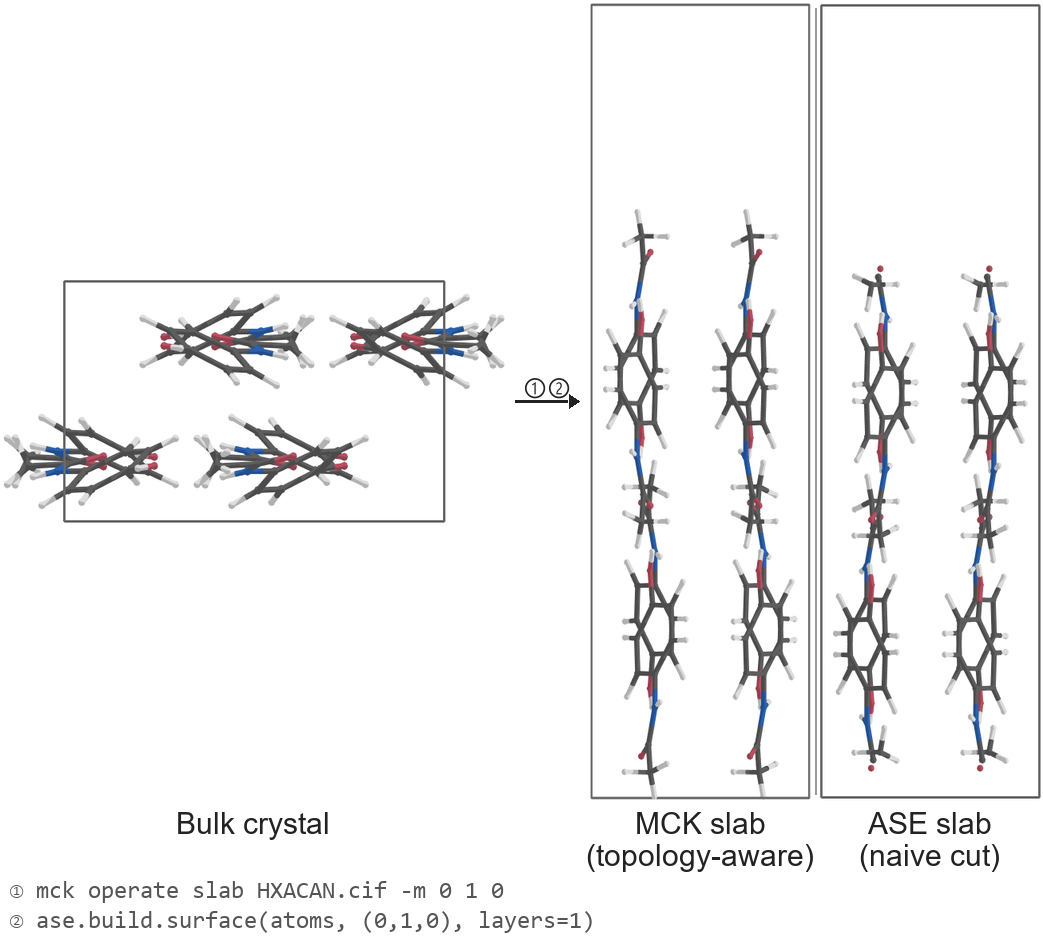
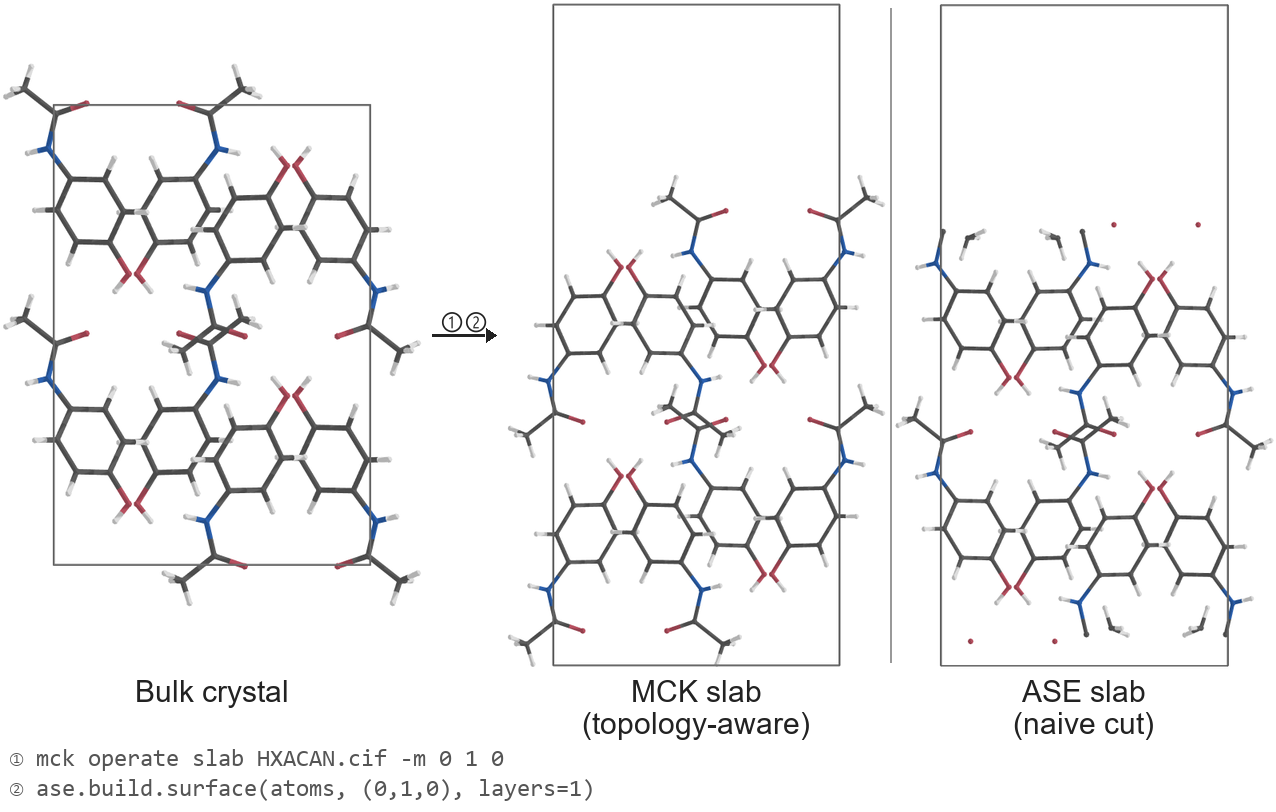
docs: regenerate fig03 with wider view angle

diff --git a/README.md b/README.md
@@ -29,7 +29,7 @@ MolCrysKit is a Python toolkit designed for handling molecular crystals, providi
 </p>
 
 <p align="center">
-  <img src="docs/images/03_topological_surface.png" width="406"><br>
+  <img src="docs/images/03_topological_surface.png" width="496"><br>
   <em>Topological Surface Generation</em>
 </p>
 